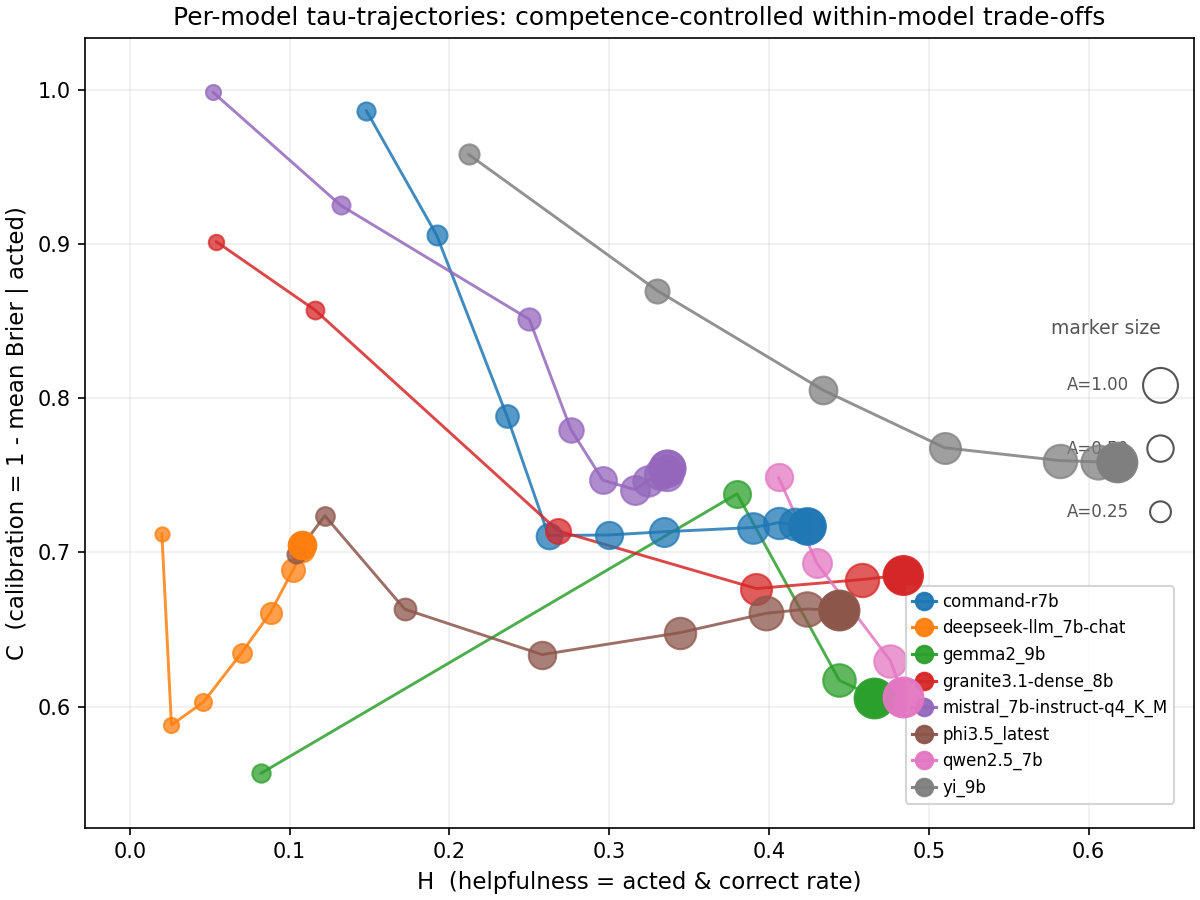
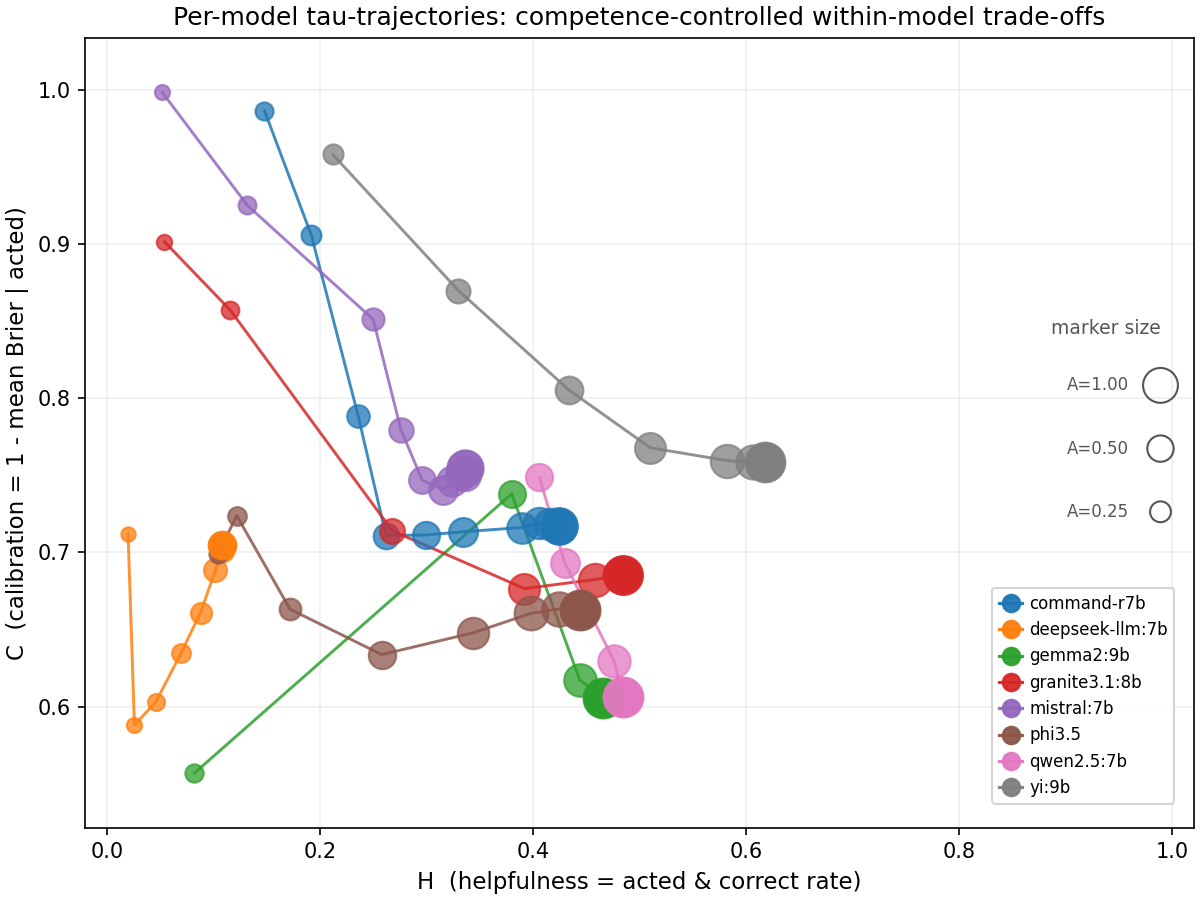
L.5(figure-fix-4): extend x-axis to 1.0, short model labels, both legends in empty right column
Two changes:
1. ax.set_xlim(-0.02, 1.02): the empty H>0.62 right column is now
   visible (the joint-good corner area the figure means to call out).
2. Short legend labels (e.g., mistral:7b instead of
   mistral_7b-instruct-q4_K_M). The long Ollama tags were forcing the
   model legend to extend left into the data cluster (x<0.62); short
   labels keep the legend entirely in the empty x>0.62 column.

Result: both legends (color/line model legend + bubble-size key) sit
in the empty right column with no data overlap. Joint-good corner at
(H=1, C=1) is visible whitespace. 166 tests pass under -W error.

diff --git a/scripts/plot_model_points.py b/scripts/plot_model_points.py
@@ -423,6 +423,11 @@ def build_logprob_figure(
     ax.tick_params(axis="both", labelsize=10)
     ax.grid(True, alpha=0.2)
     ax.margins(0.08)
+    # Pin x-axis to [0, 1] so the empty H>0.62 right column is visible
+    # (the joint-good corner area the figure means to call out as
+    # empty), and so both legends can sit in that genuinely data-free
+    # column without overlapping any trajectory.
+    ax.set_xlim(-0.02, 1.02)
 
     # Single neutral title — within-model trade-off framing, no trilemma
     # rhetoric.
@@ -464,14 +469,30 @@ def build_logprob_figure(
     if model_ids:
         from matplotlib.lines import Line2D
 
+        # Short labels for the legend (the long Ollama tags like
+        # "mistral_7b-instruct-q4_K_M" expand the legend past the empty
+        # right column; the colon-separated short forms match how these
+        # models are referred to in the manuscript prose).
+        _SHORT = {
+            "command-r7b": "command-r7b",
+            "deepseek-llm_7b-chat": "deepseek-llm:7b",
+            "gemma2_9b": "gemma2:9b",
+            "granite3.1-dense_8b": "granite3.1:8b",
+            "mistral_7b-instruct-q4_K_M": "mistral:7b",
+            "phi3.5_latest": "phi3.5",
+            "qwen2.5_7b": "qwen2.5:7b",
+            "yi_9b": "yi:9b",
+        }
         handles = []
         labels = []
         for mid in model_ids:
             is_partial = mid in partial_models
             color = color_of[mid]
             n_seeds = coords[mid]["n_seeds"]
+            short = _SHORT.get(mid, mid)
             label = (
-                f"{mid} (partial: {n_seeds} seeds)" if is_partial else mid
+                f"{short} (partial: {n_seeds} seeds)"
+                if is_partial else short
             )
             handles.append(Line2D(
                 [0], [0], marker="o", linestyle="-",